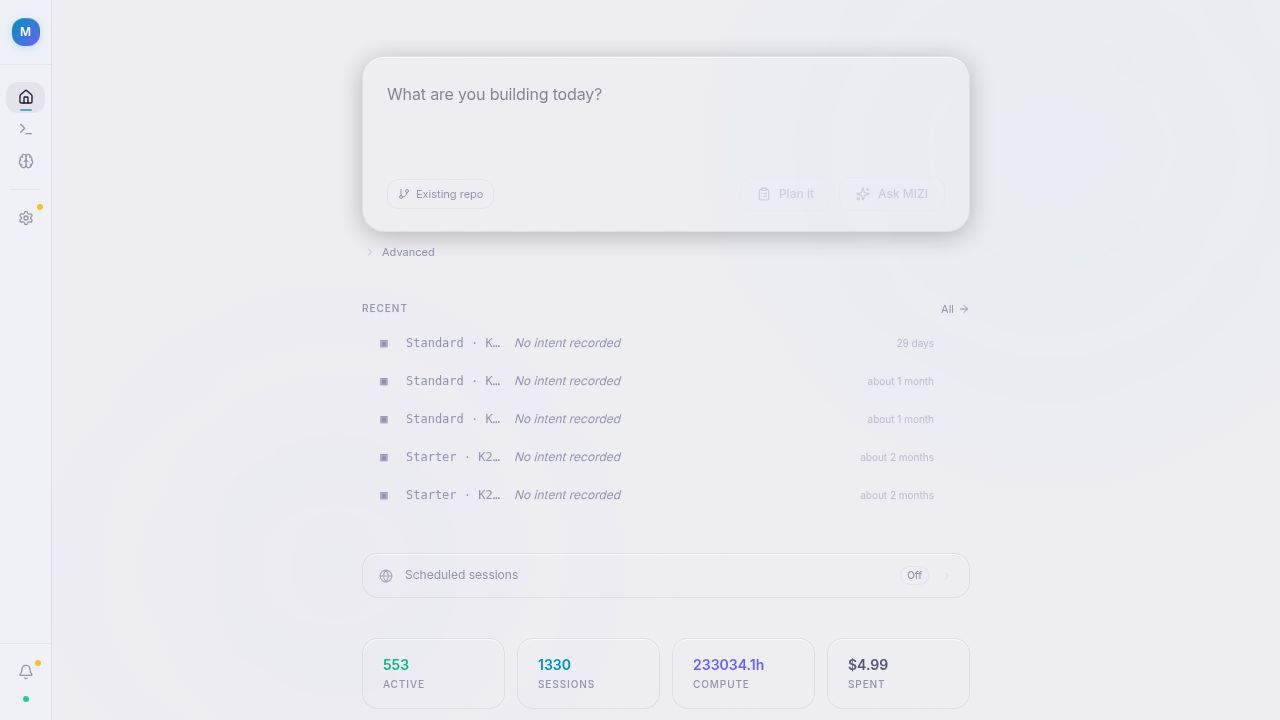
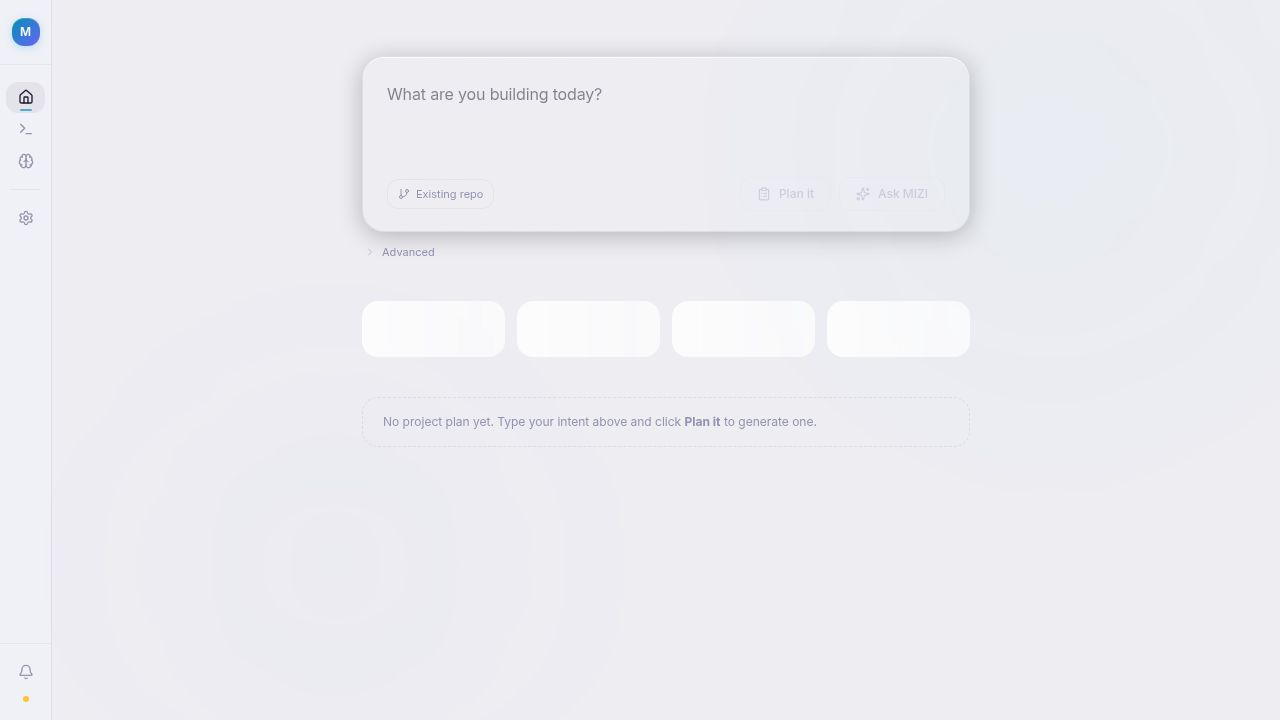
Simplify cockpit loading screen: hide 5 panels while booting
User reported 8 distinct areas visible during container boot with lots of
repeated info. Reduced to 3 areas: page header, session meta/intent chip,
and the boot bar.

Changes to artifacts/dashboard/src/pages/sessions/[id].tsx:
- Glass cockpit bar (intent strip + Details → + bell): hidden while isBooting
- ChatPanel: gated on !isBooting (agent can't receive messages yet anyway)
- PlanProgressPanel: hidden while isBooting
- Team Activity card: hidden while isBooting
- Team Access card: hidden while isBooting
- Hardware & Access + Cost & Timing grid: hidden while isBooting
- Quick links (Browse Files / Snapshots): hidden while isBooting

All panels reappear the moment isBooting becomes false (status → ready).

diff --git a/artifacts/dashboard/src/pages/sessions/[id].tsx b/artifacts/dashboard/src/pages/sessions/[id].tsx
@@ -3591,8 +3591,8 @@ export default function SessionDetail() {
         </div>
       </div>
 
-      {/* Glass cockpit bar — calm single strip: intent context left, Details + notif right */}
-      <div
+      {/* Glass cockpit bar — hidden while booting; shown once ready */}
+      {!isBooting && <div
         className="flex items-center justify-between px-4 py-2.5 rounded-xl"
         style={{ background: "var(--bg-glass)", border: "1px solid var(--border-glass)" }}
       >
@@ -3765,7 +3765,7 @@ export default function SessionDetail() {
             </PopoverContent>
           </Popover>
         </div>
-      </div>
+      </div>}
 
       {activeTab === "overview" && (
         <>
@@ -3846,16 +3846,16 @@ export default function SessionDetail() {
             </Card>
           ) : null}
 
-          {/* Soft-interrupt chat panel — shown for all active sessions */}
-          {isActive && (
+          {/* Soft-interrupt chat panel — hidden while booting (agent isn't ready yet) */}
+          {isActive && !isBooting && (
             <ChatPanel sessionId={sessionId} isActive={isActive} />
           )}
 
           {/* Plan progress — shows MIZI's current task, plan checkpoint, active files */}
-          <PlanProgressPanel sessionId={sessionId} isActive={isActive} />
+          {!isBooting && <PlanProgressPanel sessionId={sessionId} isActive={isActive} />}
 
-          {/* Team Activity — compact summary card for team sessions */}
-          {hasNamedTeamMembers && (() => {
+          {/* Team Activity — compact summary card for team sessions (hidden while booting) */}
+          {!isBooting && hasNamedTeamMembers && (() => {
             const activeLaneCount = (bgCoordData?.lanes ?? []).filter(
               (ls) => ls.lane.status === "active"
             ).length;
@@ -3902,8 +3902,8 @@ export default function SessionDetail() {
             );
           })()}
 
-          {/* Team Access — shown when session has non-shared team members */}
-          {(() => {
+          {/* Team Access — hidden while booting */}
+          {!isBooting && (() => {
             type TM = { name: string; password?: string | null; path: string; ideUrl?: string | null };
             const allMembers = (session.teamMembers as TM[] | null) ?? [];
             const namedMembers = allMembers.filter((m) => m.name !== "__shared__");
@@ -4042,8 +4042,8 @@ export default function SessionDetail() {
             );
           })()}
 
-          {/* Details */}
-          <div className="grid grid-cols-1 md:grid-cols-2 gap-4">
+          {/* Details — hidden while booting */}
+          {!isBooting && <div className="grid grid-cols-1 md:grid-cols-2 gap-4">
             <Card className="bg-card/50 border-border/50">
               <CardHeader className="pb-2">
                 <CardTitle className="text-sm flex items-center gap-2 text-muted-foreground font-medium uppercase tracking-wide">
@@ -4222,10 +4222,10 @@ export default function SessionDetail() {
                 })()}
               </CardContent>
             </Card>
-          </div>
+          </div>}
 
-          {/* Quick links — always visible for non-stopped sessions so users can reach Files/Snapshots without discovering the sheet */}
-          {session.status !== "stopped" && session.status !== "error" && (
+          {/* Quick links — hidden while booting */}
+          {!isBooting && session.status !== "stopped" && session.status !== "error" && (
             <div className="flex items-center gap-2 flex-wrap">
               <button
                 onClick={() => { lastDetailTabRef.current = "files"; setActiveTab("files"); }}